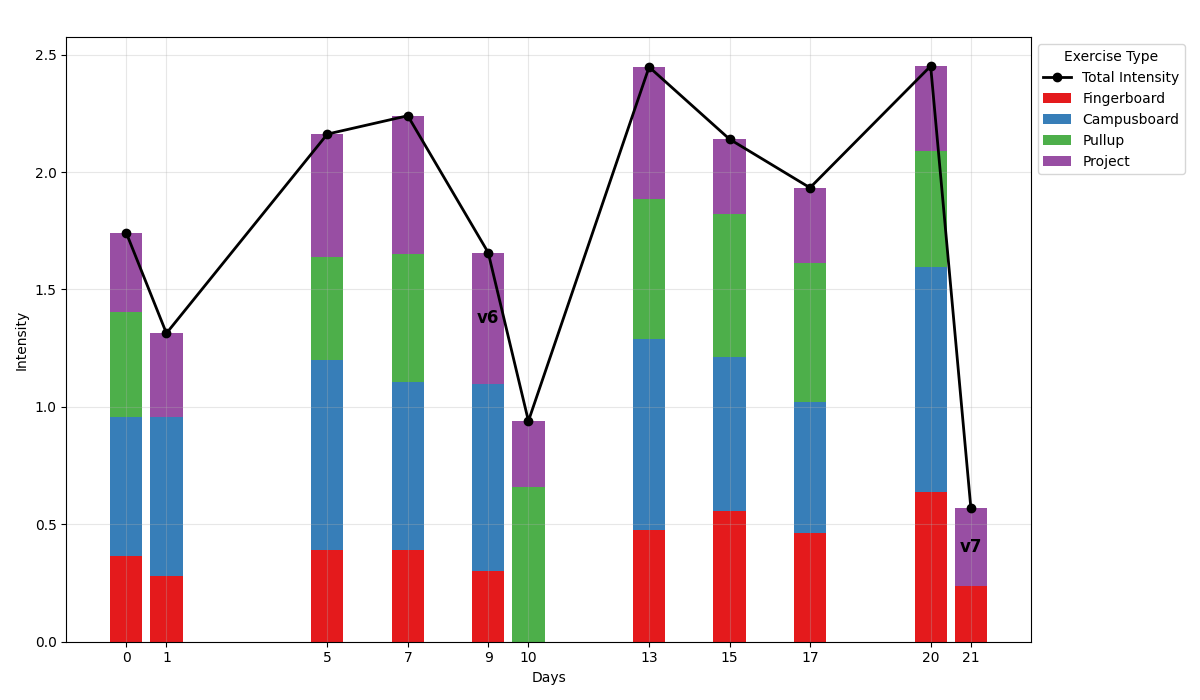
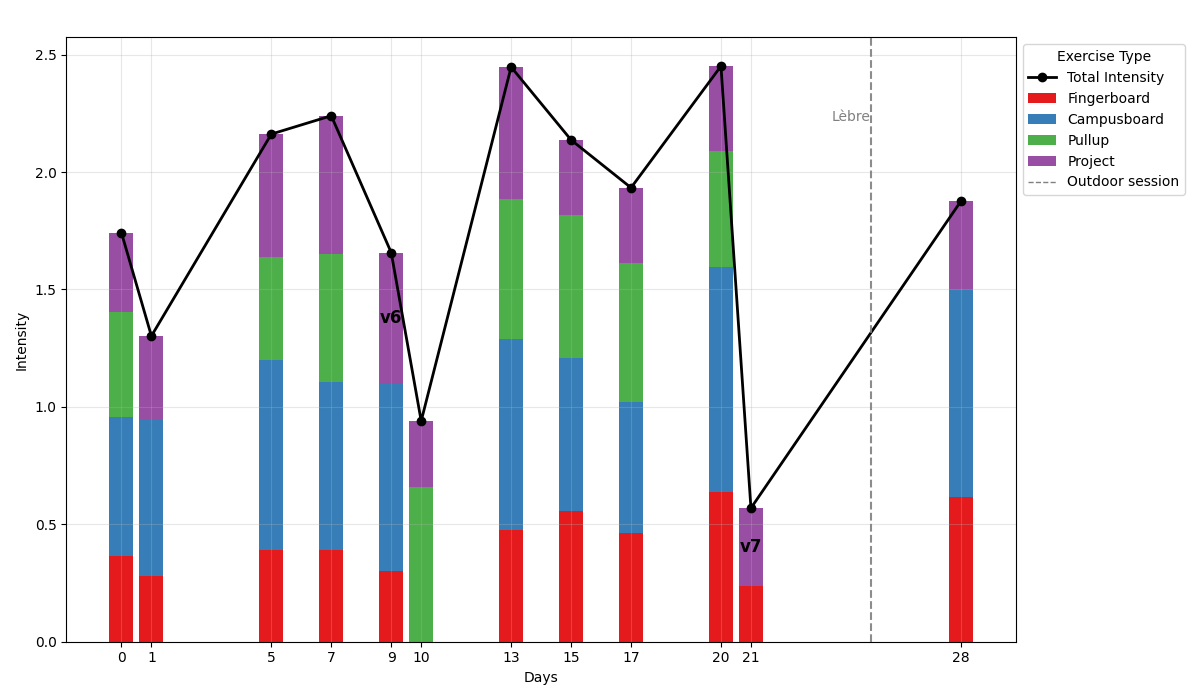
outdoor sections displayed

Changed region(s): [[0.0925, 0.09, 0.8325, 0.99], [0.8325, 0.06, 0.9867, 0.27]]

diff --git a/apps/plot_intensity.py b/apps/plot_intensity.py
@@ -19,6 +19,26 @@ proj_grades = []  # to store label per workout
 
 
 json_files = glob.glob(os.path.join(data_dir, "*.json"))
+
+# Collect dates of outdoor climbing sessions (files with "climbs")
+outdoor_sessions = []  # list of (date_obj, name)
+
+for file_path in json_files:
+    with open(file_path, "r") as f:
+        try:
+            data = json.load(f)
+        except:
+            continue
+    if "climbs" in data:
+        workout_date = data.get("date")
+        try:
+            date_obj = datetime.strptime(workout_date, "%d-%m-%Y").date()
+            name = data.get("name", "Outdoor")  # fallback name
+            outdoor_sessions.append((date_obj, name))
+        except:
+            continue
+
+# Collect dates from workouts
 for file_path in json_files:
     with open(file_path, "r") as f:
         try:
@@ -26,6 +46,11 @@ for file_path in json_files:
         except Exception as e:
             print(f"Error reading {file_path}: {e}")
             continue
+
+    # Skip files that are for outdoor climbs
+    if "exercises" not in data:
+        continue
+
     workout_date = data.get("date")
     try:
         date_obj = datetime.strptime(workout_date, "%d-%m-%Y")
@@ -100,12 +125,36 @@ for i, (xi, proj, label) in enumerate(zip(x, proj_intensity, proj_grades)):
 # Plot the total intensity as a continuous line over the stacked bars.
 ax.plot(x, total_intensity, color="black", marker="o", linestyle="-", linewidth=2, label="Total Intensity")
 
+# Plot lines to mark outdoor sections
+for dt, name in outdoor_sessions:
+    xi = (datetime.combine(dt, datetime.min.time()) - start_date).days
+
+    print(f"Outdoor session at x={xi}, date={dt}, name={name}")
+    ax.axvline(x=xi, color="gray", linestyle="--", linewidth=1.5, alpha=0.9, zorder=10)
+    ax.text(
+        xi, max(total_intensity)*0.9,
+        name,
+        ha="right", va="bottom",
+        fontsize=10, color="gray", rotation=0
+    )
+
+
+
 # Format the x-axis.
 ax.set_xticks(x)
 ax.set_xlabel("Days")
 ax.set_ylabel("Intensity")
 ax.set_title(" ")
-ax.legend(title="Exercise Type", loc="upper left", bbox_to_anchor=(1, 1))
+
+from matplotlib.lines import Line2D
+# Custom legend entry for outdoor sessions
+outdoor_legend = Line2D([0], [0], color="gray", linestyle="--", linewidth=1.0, label="Outdoor session")
+handles, labels = ax.get_legend_handles_labels()
+handles.append(outdoor_legend)
+labels.append("Outdoor session")
+ax.legend(handles, labels, title="Exercise Type", loc="upper left", bbox_to_anchor=(1, 1))
+
+
 plt.grid(alpha=0.3)
 plt.tight_layout()
 plt.show()

diff --git a/apps/plot_intensity_budget.py b/apps/plot_intensity_budget.py
@@ -24,6 +24,11 @@ for file_path in json_files:
         except Exception as e:
             print(f"Error reading {file_path}: {e}")
             continue
+
+    # Skip files that are for outdoor climbs
+    if "exercises" not in data:
+        continue
+
     workout_date = data.get("date")
     try:
         date_obj = datetime.strptime(workout_date, "%d-%m-%Y")
